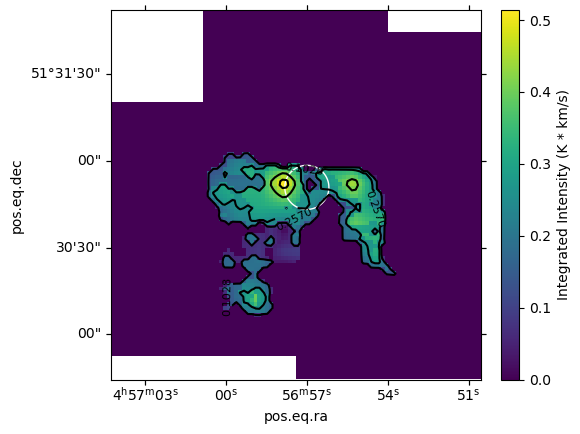
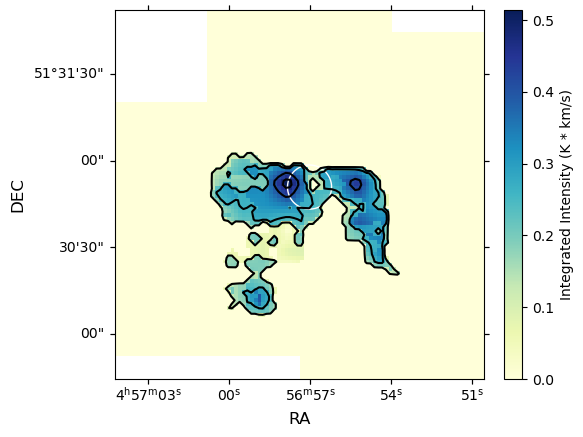
I have made changes to most of the codes
I can now take reduced data and immediatly produce moment maps from BTS, then generate moment map plots. I think this code needs to be split

diff --git a/plot_JCMT_images.py b/plot_JCMT_images.py
@@ -7,15 +7,14 @@ from mpl_toolkits.axes_grid1 import make_axes_locatable
 
 #Astropy modules to deal with coordinates
 from astropy.wcs import WCS
-from astropy.wcs import Wcsprm
 from astropy.io import fits
-from astropy.wcs import utils
 
+from astroquery.simbad import Simbad
 from astropy.coordinates import SkyCoord
 from astropy import units as u
 from astropy.visualization.wcsaxes import SphericalCircle
-
 import BTS
+import seaborn as sns
 
 class DataAnalysis:
     """
@@ -144,7 +143,7 @@ def run_moment_map_shell_script(path_to_folder):
     subprocess.check_call(['bash',os.path.join(path_to_folder,"moment_map_preparation.sh")], cwd=path_to_folder)
 
 
-def create_moment_masking_parameterfile(folder_file, fits_file_name,cube_param_name='Fit_cube.param'):
+def create_moment_masking_parameterfile(source_name, fits_file_name,cube_param_name='Fit_cube.param'):
     '''
     Copy the parameter file needed to run BTS and create moment maps
     Modify the files themselves so they have the appropriate input data
@@ -155,9 +154,10 @@ def create_moment_masking_parameterfile(folder_file, fits_file_name,cube_param_n
     cube_param_name: default is Fit_cube.param in the same directory as this file
     '''
 
+    folder_file= os.path.join('sdf_and_fits',source_name)#  sdf_and_fits/'+source_name+'/'
     data_cube = DataAnalysis(folder_file, fits_file_name + '.fits')
     molecule = data_cube.molecule
-    source_name =data_cube.source_name
+    # source_name =data_cube.source_name
 
     ### copying the file
     moment_param_filename = source_name + '_' + molecule + '_moments.param'  ## Name of the cube.param file
@@ -237,51 +237,114 @@ def integrated_intensity(path, filename):
 
     return 1
 
-def make_average_spectrum_data(path, filename):
+
+def get_icrs_coordinates(object_name):
+    # Initialize Simbad object and customize output to include coordinates
+    custom_simbad = Simbad()
+    custom_simbad.add_votable_fields('coordinates')
+
+    # Query Simbad for the object
+    result_table = custom_simbad.query_object(object_name)
+
+    # Check if the query returned any results
+    if result_table is None:
+        print(f"Object '{object_name}' not found in SIMBAD.")
+        return None
+
+    # Extract the RA and DEC columns from the result
+    ra = result_table['RA'][0]  # Right Ascension in HMS (hours, minutes, seconds)
+    dec = result_table['DEC'][0]  # Declination in DMS (degrees, arcminutes, arcseconds)
+
+    # Convert RA and DEC to a SkyCoord object in the ICRS frame
+    coord = SkyCoord(ra=ra, dec=dec, unit=(u.hourangle, u.deg), frame='icrs')
+
+    # Return the ICRS coordinates in degrees
+    return coord
+
+
+def make_averaged_spectrum_data(source_name, molecule):
     """
     Average spectrum of the whole cube.
     """
-    data_cube = DataAnalysis(path, filename)
-    moment_0 = DataAnalysis(path, filename+'_mom0.fits')
+
+    filename = source_name+'_'+molecule
+    data_cube = DataAnalysis(os.path.join('sdf_and_fits',source_name), filename+'.fits')
+    moment_0 = DataAnalysis(os.path.join('moment_maps',source_name), filename+'_mom0.fits')
 
     if 'HCO+' in data_cube.molecule:
         aperture_radius = 7.05
-    elif 'C18O ' in data_cube.molecule:
+    elif data_cube.molecule == 'C18O':
         aperture_radius = 7.635
     else:
         raise Exception("Sorry, I need to calculate such aperture radius")
 
     pix_per_beam = aperture_radius**2*np.pi / (4*np.log(2)*data_cube.cdelt_ra**2) # pix-per-beam = beam_size/pix_area
-    x_center,y_center = moment_0.wcs.world_to_pixel(skycoord_object)
-    # print(x,y)
+    velocity = data_cube.vel
+    cube = data_cube.ppv_data
+
+    averaged_spectrum = np.nanmean(cube, axis=(1,2)) * pix_per_beam
+
+    return averaged_spectrum, velocity
+
+
+def make_central_spectrum_data(source_name, molecule):
+    """
+    Average spectrum of the central beam.
+
+    """
+
+    filename = source_name+'_'+molecule
+    data_cube = DataAnalysis(os.path.join('sdf_and_fits',source_name), filename+'.fits')
+    moment_0 = DataAnalysis(os.path.join('moment_maps',source_name), filename+'_mom0.fits')
+
+    if 'HCO+' in data_cube.molecule:
+        aperture_radius = 7.05
+    elif data_cube.molecule == 'C18O':
+        aperture_radius = 7.635
+    else:
+        raise Exception("Sorry, I need to calculate such aperture radius")
+
+    pix_per_beam = aperture_radius**2*np.pi / (4*np.log(2)*data_cube.cdelt_ra**2) # pix-per-beam = beam_size/pix_area
     velocity = data_cube.vel
 
-    ### This needs to be changed by selecting pixels within 1 aperture,
-    ### Need to work on the code below
-    ### I could use the same for the integration of the emission.
-    # center_beam_values=[]
-    # for xx in range():
-    #     for yy in range():
-    #         if xx < x_center + aperture_radius and yy < y_center + aperture_radius:
-    #             center_beam_values.append(data_cube.ppv_data[:,xx,yy])
+    x_center, y_center = moment_0.wcs.world_to_pixel(skycoord_object)
+    # print(x_center, y_center)
 
-    image = data_cube.ppv_data[:,int(y)-6:int(y)+6,int(x)-6:int(x)+6]* pix_per_beam
-    average_spectrum = np.nanmedian(image, axis=(1, 2))
+    # Initialize a list to store the pixel values within the aperture
+    center_beam_values = []
+
+    # Iterate over a square region, but filter by distance to make it circular
+    for xx in range(int(x_center - aperture_radius), int(x_center + aperture_radius) + 1):
+        for yy in range(int(y_center - aperture_radius), int(y_center + aperture_radius) + 1):
+            # Calculate the distance from the center
+            distance = np.sqrt((xx - x_center) ** 2 + (yy - y_center) ** 2)
+
+            # Check if the distance is within the aperture radius
+            if distance <= aperture_radius:
+                # Append the data at this pixel position
+                center_beam_values.append(data_cube.ppv_data[:, xx, yy])
+
+    # Convert center_beam_values to a NumPy array for easy manipulation
+    center_beam_values = np.array(center_beam_values)
+
+    average_spectrum = np.nanmean(center_beam_values, axis=0) * pix_per_beam
 
     return average_spectrum, velocity
 
-def plot_average_spectrum(path,filename,save=False):
+def plot_spectrum(source_name, molecule,save=False):
     """
     This one plots the average spectrum
     """
-    spectrum, velocity = make_average_spectrum_data(path,filename)
+    # spectrum, velocity = make_central_spectrum_data(source_name, molecule)
+    spectrum, velocity =make_averaged_spectrum_data(source_name,molecule)
+
     plt.figure()
     # plt.title("Averaged Spectrum ("+mole_name+") @"+dir_each)
-    plt.xlabel("velocity [km/s]")
-    plt.ylabel("Intensity")
+    plt.xlabel("velocity (km/s)")
+    plt.ylabel("Averaged Spectrum (K)")
     # Set the value for horizontal line
     y_horizontal_line = 0
-    plt.axhline(y_horizontal_line, color='red', linestyle='-')
+    # plt.axhline(y_horizontal_line, color='red', linestyle='-')
 #     plt.axvline(Vsys, color='red', linestyle='--')
     plt.plot(velocity,spectrum,"-",color="black",lw=1)
     plt.tick_params(axis='both', direction='in')
@@ -322,27 +385,35 @@ def plot_moment_zero_map(filename,source_name,sky_cord_object=False,save=False):
 
     if 'HCO+' in data_cube.molecule:
         aperture_radius = 7.05
+        cmap = sns.color_palette("YlOrBr",as_cmap=True)
+
     elif data_cube.molecule == 'C18O':
         aperture_radius = 7.635
+        cmap = sns.color_palette("YlGnBu",as_cmap=True)
+
     else:
         raise Exception("Sorry, I need to calculate such aperture radius")
 
     pix_per_beam = aperture_radius**2*np.pi / (4*np.log(2)*data_cube.cdelt_ra**2) # pix-per-beam = beam_size/pix_area
     image_mom_0 = image_mom_0 * pix_per_beam
+    # image_mom_0[image_mom_0 == 0] = np.nan
 
     peak = np.nanmax(image_mom_0)
     levels = np.array([0.2,  0.5, 0.8, 0.95])
     levels = levels * peak
 
+
     ## Moment zero
     fig1 = plt.subplot(projection=moment_0.wcs)
-    mom0_im = fig1.imshow(image_mom_0, cmap="viridis", origin='lower')#,vmax=0.3)
+    mom0_im = fig1.imshow(image_mom_0, cmap=cmap, origin='lower')#,vmax=1)
     # divider = make_axes_locatable(fig1)
     # cax = divider.append_axes("right", size="5%", pad=0.05)
     cbar = plt.colorbar(mom0_im, fraction=0.048, pad=0.04, label='Integrated Intensity (K * km/s)')
     contour = fig1.contour(image_mom_0, levels=levels, colors="black")
-    plt.clabel(contour, inline=True, fontsize=8)
+    # plt.clabel(contour, inline=True, fontsize=8)
 
+    fig1.set_xlabel('RA',size=12)
+    fig1.set_ylabel('DEC',size=12)
 
     if sky_cord_object:
         s = SphericalCircle(skycoord_object, aperture_radius * u.arcsec,
@@ -353,34 +424,40 @@ def plot_moment_zero_map(filename,source_name,sky_cord_object=False,save=False):
 
     if save:
         plt.savefig(os.path.join('Figures',filename), bbox_inches='tight')
+        # plt.savefig(os.path.join('Figures',filename+'_transparent'), bbox_inches='tight', transparent=True)
     plt.show()
 
 
 if __name__ == "__main__":
 
     ### Step 1 source name
-    source_name = 'IRAS04489+3042'
-    molecule ='C18O'
+    containing_folder='M23AP008'
+    source_name = 'V347_Aur'
+    molecule ='HCO+'
     fits_file_name=source_name+'_'+molecule #'V347_Aur_HCO+'
 
     ### Step 2
     ## Get the shell script for moment map preparation
-    # path_to_folder='M22BH10B/'+source_name+'/'+molecule+'/reduced/'
-    # create_shell_script_moment_maps(path_to_folder,sdf_name='ga20220819_78_1_0p20bin001',
+    # path_to_folder=containing_folder+'/'+source_name+'/'+molecule+'/reduced/'
+    # create_shell_script_moment_maps(path_to_folder,sdf_name='ga20230703_53_1_0p20bin001.sdf',
     #                                 source_name=source_name,molec=molecule)
     # run_moment_map_shell_script(path_to_folder='.')
 
     ### Step 3
     #### run the BTS to create moment maps
-    # folder_file='sdf_and_fits/'+source_name+'/'
-    # BTS_param_file = create_moment_masking_parameterfile(folder_file, fits_file_name)
+    # BTS_param_file = create_moment_masking_parameterfile(source_name, fits_file_name)
     # run_BTS(BTS_param_file)
 
     ### Step 3
     ### Plot the maps
     # skycoord_object = SkyCoord('04 56 57.0 +51 30 50.88', unit=(u.hourangle, u.deg))
-    plot_moment_zero_map(fits_file_name,source_name=source_name,save=True)
+    # skycoord_object = get_icrs_coordinates('V347 Aur')
+    # plot_moment_zero_map(fits_file_name,source_name=source_name,save=True,sky_cord_object=True)
 
-    ### Step X Not working yet
-    # plot_average_spectrum(path, filename,save=True)
-    # make_average_spectrum_data(path, filename)
+    ### Step 4
+    ### Get an averaged spectrum over 1 beam of the map. You MUST give the SIMBAD-searchable name
+    skycoord_object = get_icrs_coordinates('V347 Aur')
+    plot_spectrum(source_name, molecule)
+
+    ## Step 5
+    ### fit the spectrum with a 2D gaussian.

diff --git a/cube_analysis.py b/cube_analysis.py
@@ -1,0 +1,48 @@
+import numpy as np
+from scipy.optimize import curve_fit
+
+# Define a 2D Gaussian function
+def gaussian_2d(xy, amplitude, x0, y0, sigma_x, sigma_y, theta, offset):
+    (x, y) = xy
+    x0 = float(x0)
+    y0 = float(y0)
+    a = (np.cos(theta)**2)/(2*sigma_x**2) + (np.sin(theta)**2)/(2*sigma_y**2)
+    b = -(np.sin(2*theta))/(4*sigma_x**2) + (np.sin(2*theta))/(4*sigma_y**2)
+    c = (np.sin(theta)**2)/(2*sigma_x**2) + (np.cos(theta)**2)/(2*sigma_y**2)
+    g = offset + amplitude * np.exp( - (a*((x-x0)**2) + 2*b*(x-x0)*(y-y0) + c*((y-y0)**2)))
+    return g.ravel()
+
+# Function to fit the Gaussian and calculate FWHM
+def fit_gaussian_2d(image):
+    # Create x and y indices
+    x = np.linspace(0, image.shape[1] - 1, image.shape[1])
+    y = np.linspace(0, image.shape[0] - 1, image.shape[0])
+    x, y = np.meshgrid(x, y)
+
+    # Initial guess for the parameters: amplitude, x0, y0, sigma_x, sigma_y, theta, offset
+    initial_guess = (np.max(image), image.shape[1]//2, image.shape[0]//2, 1, 1, 0, np.min(image))
+
+    # Fit the Gaussian
+    popt, _ = curve_fit(gaussian_2d, (x, y), image.ravel(), p0=initial_guess)
+
+    # Extract the fit parameters
+    amplitude, x0, y0, sigma_x, sigma_y, theta, offset = popt
+
+    # Calculate FWHM for both x and y directions
+    fwhm_x = 2.355 * sigma_x
+    fwhm_y = 2.355 * sigma_y
+
+    return fwhm_x, fwhm_y, popt  # Return the FWHM values and the fit parameters
+
+# Example usage
+if __name__ == "__main__":
+    # Create a 2D Gaussian image for testing
+    x = np.linspace(0, 50, 50)
+    y = np.linspace(0, 50, 50)
+    x, y = np.meshgrid(x, y)
+    test_image = gaussian_2d((x, y), 3, 25, 25, 5, 7, 0, 10).reshape(50, 50)
+
+    # Fit the Gaussian to the image
+    fwhm_x, fwhm_y, params = fit_gaussian_2d(test_image)
+    print(f"FWHM in x: {fwhm_x}")
+    print(f"FWHM in y: {fwhm_y}")
